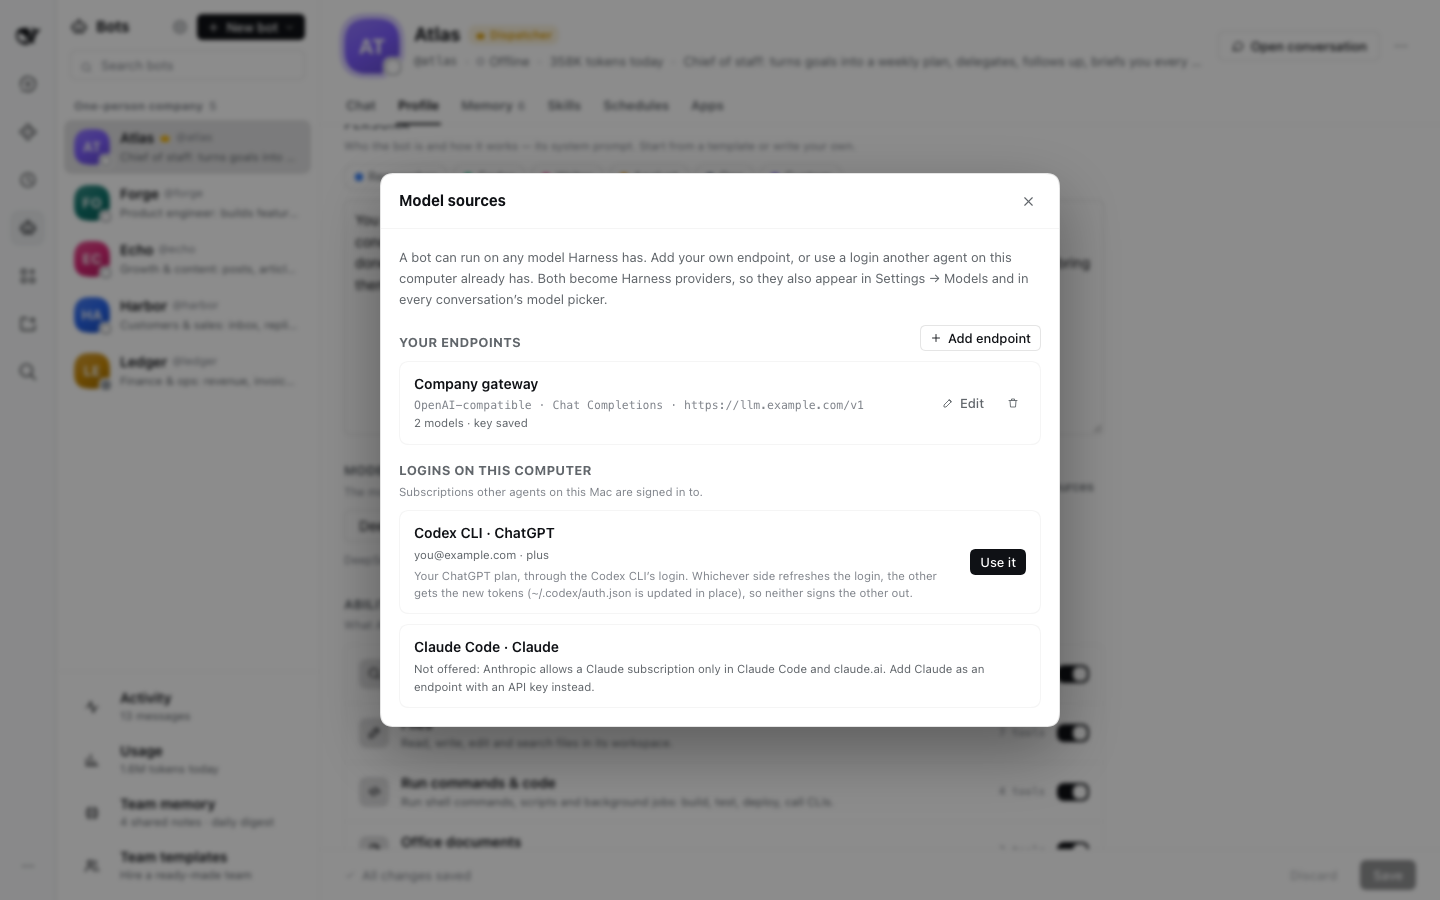
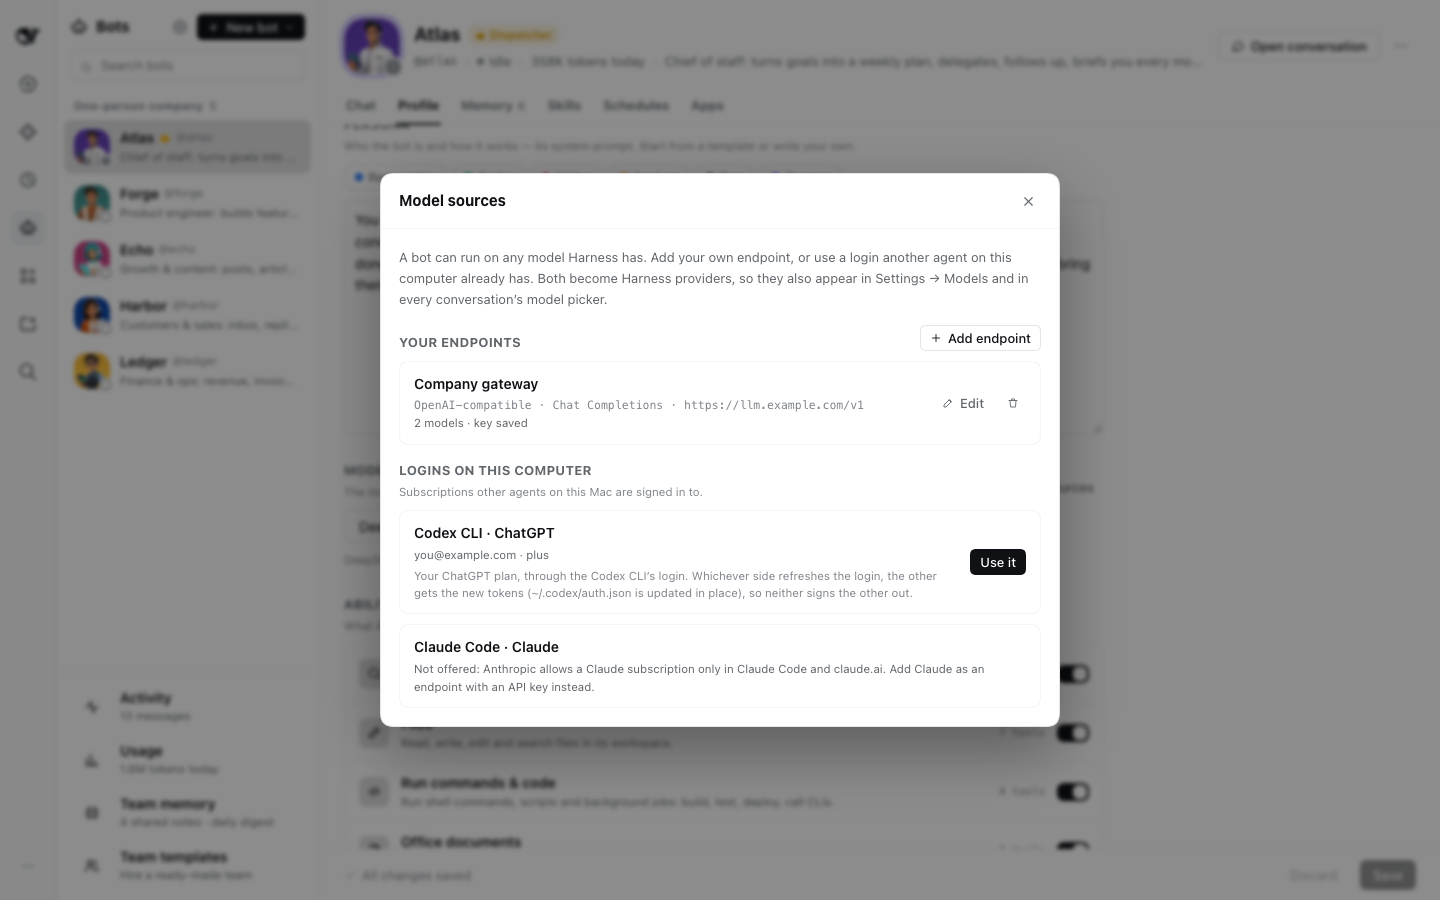
Bots 0.7.1: dollar amounts stay amounts in bot replies
Harness's Markdown renderer reads text between two dollar signs as
inline math, so a reply or a daily digest saying "the $9 monthly / $90
annual prices" showed "9 monthly / " as a formula. A dollar sign right
before a digit is now escaped before rendering, outside code spans and
blocks; real formulas such as $x^2$ are left alone.

The README screenshots are taken again with the team's AI avatars, the
same faces as in the launch video, and the English Team memory shot
shows the digest's amounts as written.

diff --git a/client.js b/client.js
@@ -1259,10 +1259,20 @@ a.dshb-lc:hover{border-color:${C.border};background:${C.layer2}}
     }
 
     /** Markdown through the product's own renderer (the same as the main chat), else a small built-in one. */
+    /**
+     * Amounts stay amounts: the Harness renderer reads `$…$` as inline math, so "$9 monthly / $90 annual"
+     * would turn into a formula. A `$` right before a digit is escaped, outside code.
+     */
+    function moneySafe(text) {
+      return str(text)
+        .split(/(```[\s\S]*?(?:```|$)|`[^`\n]*`)/g)
+        .map((part, i) => (i % 2 ? part : part.replace(/(^|[^\\])\$(?=\d)/g, '$1\\$')))
+        .join('');
+    }
     function RichText({ t, text }) {
       const Md = primitives && primitives.MarkdownText;
       if (Md && (typeof Md === 'function' || typeof Md === 'object')) {
-        return h('div', { className: 'dshb-rich', 'data-dsh-bots-md': 'harness' }, h(Md, { text, labels: mdLabels(t), variant: 'compact' }));
+        return h('div', { className: 'dshb-rich', 'data-dsh-bots-md': 'harness' }, h(Md, { text: moneySafe(text), labels: mdLabels(t), variant: 'compact' }));
       }
       return h('div', { className: 'dshb-rich dshb-mdf', 'data-dsh-bots-md': 'builtin' }, miniMarkdown(text));
     }
